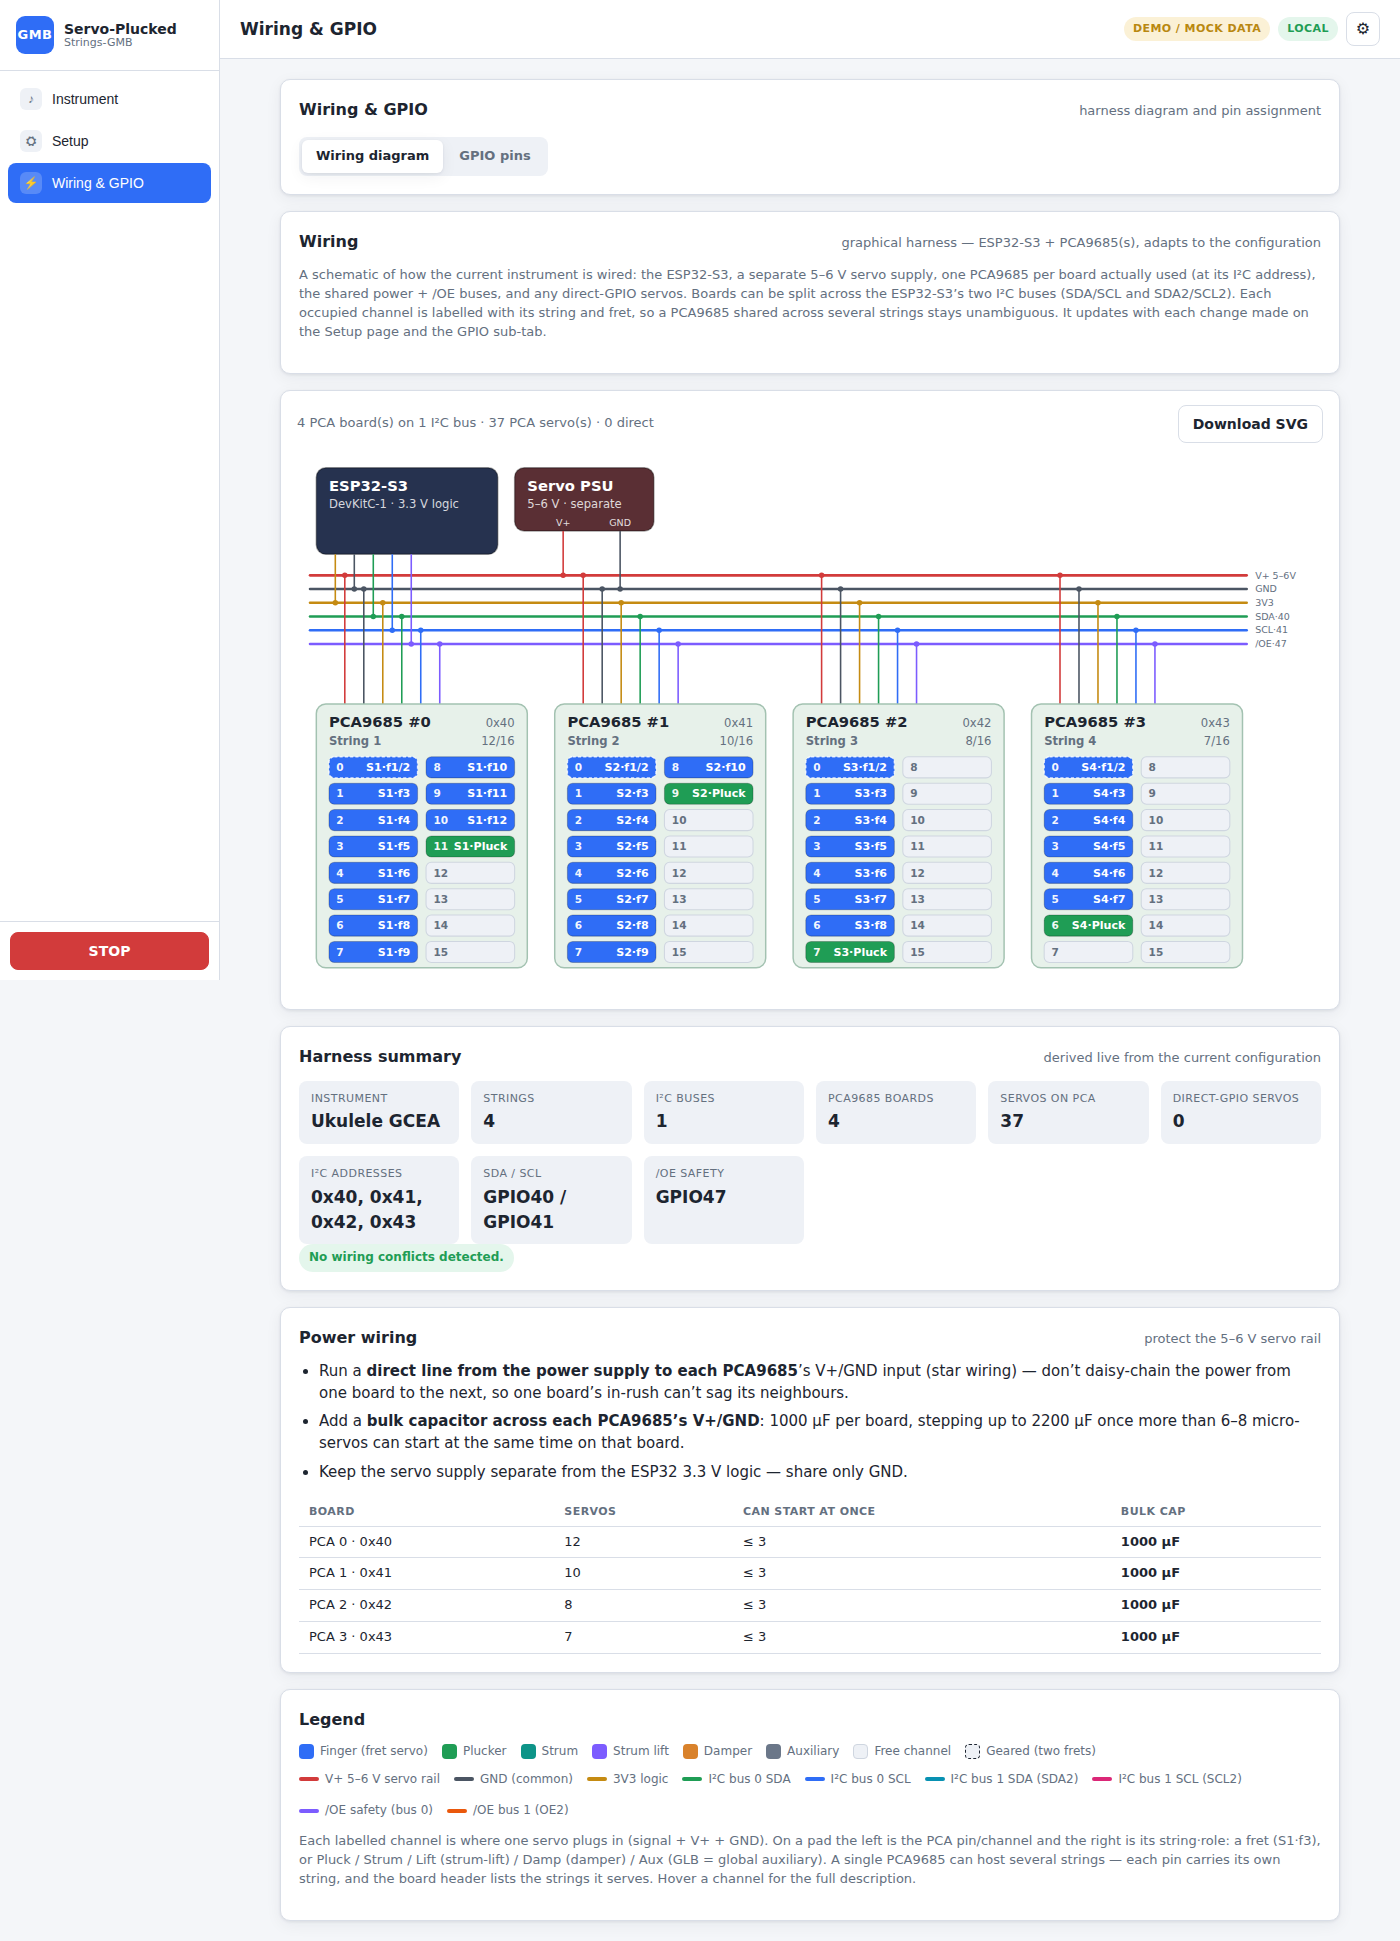
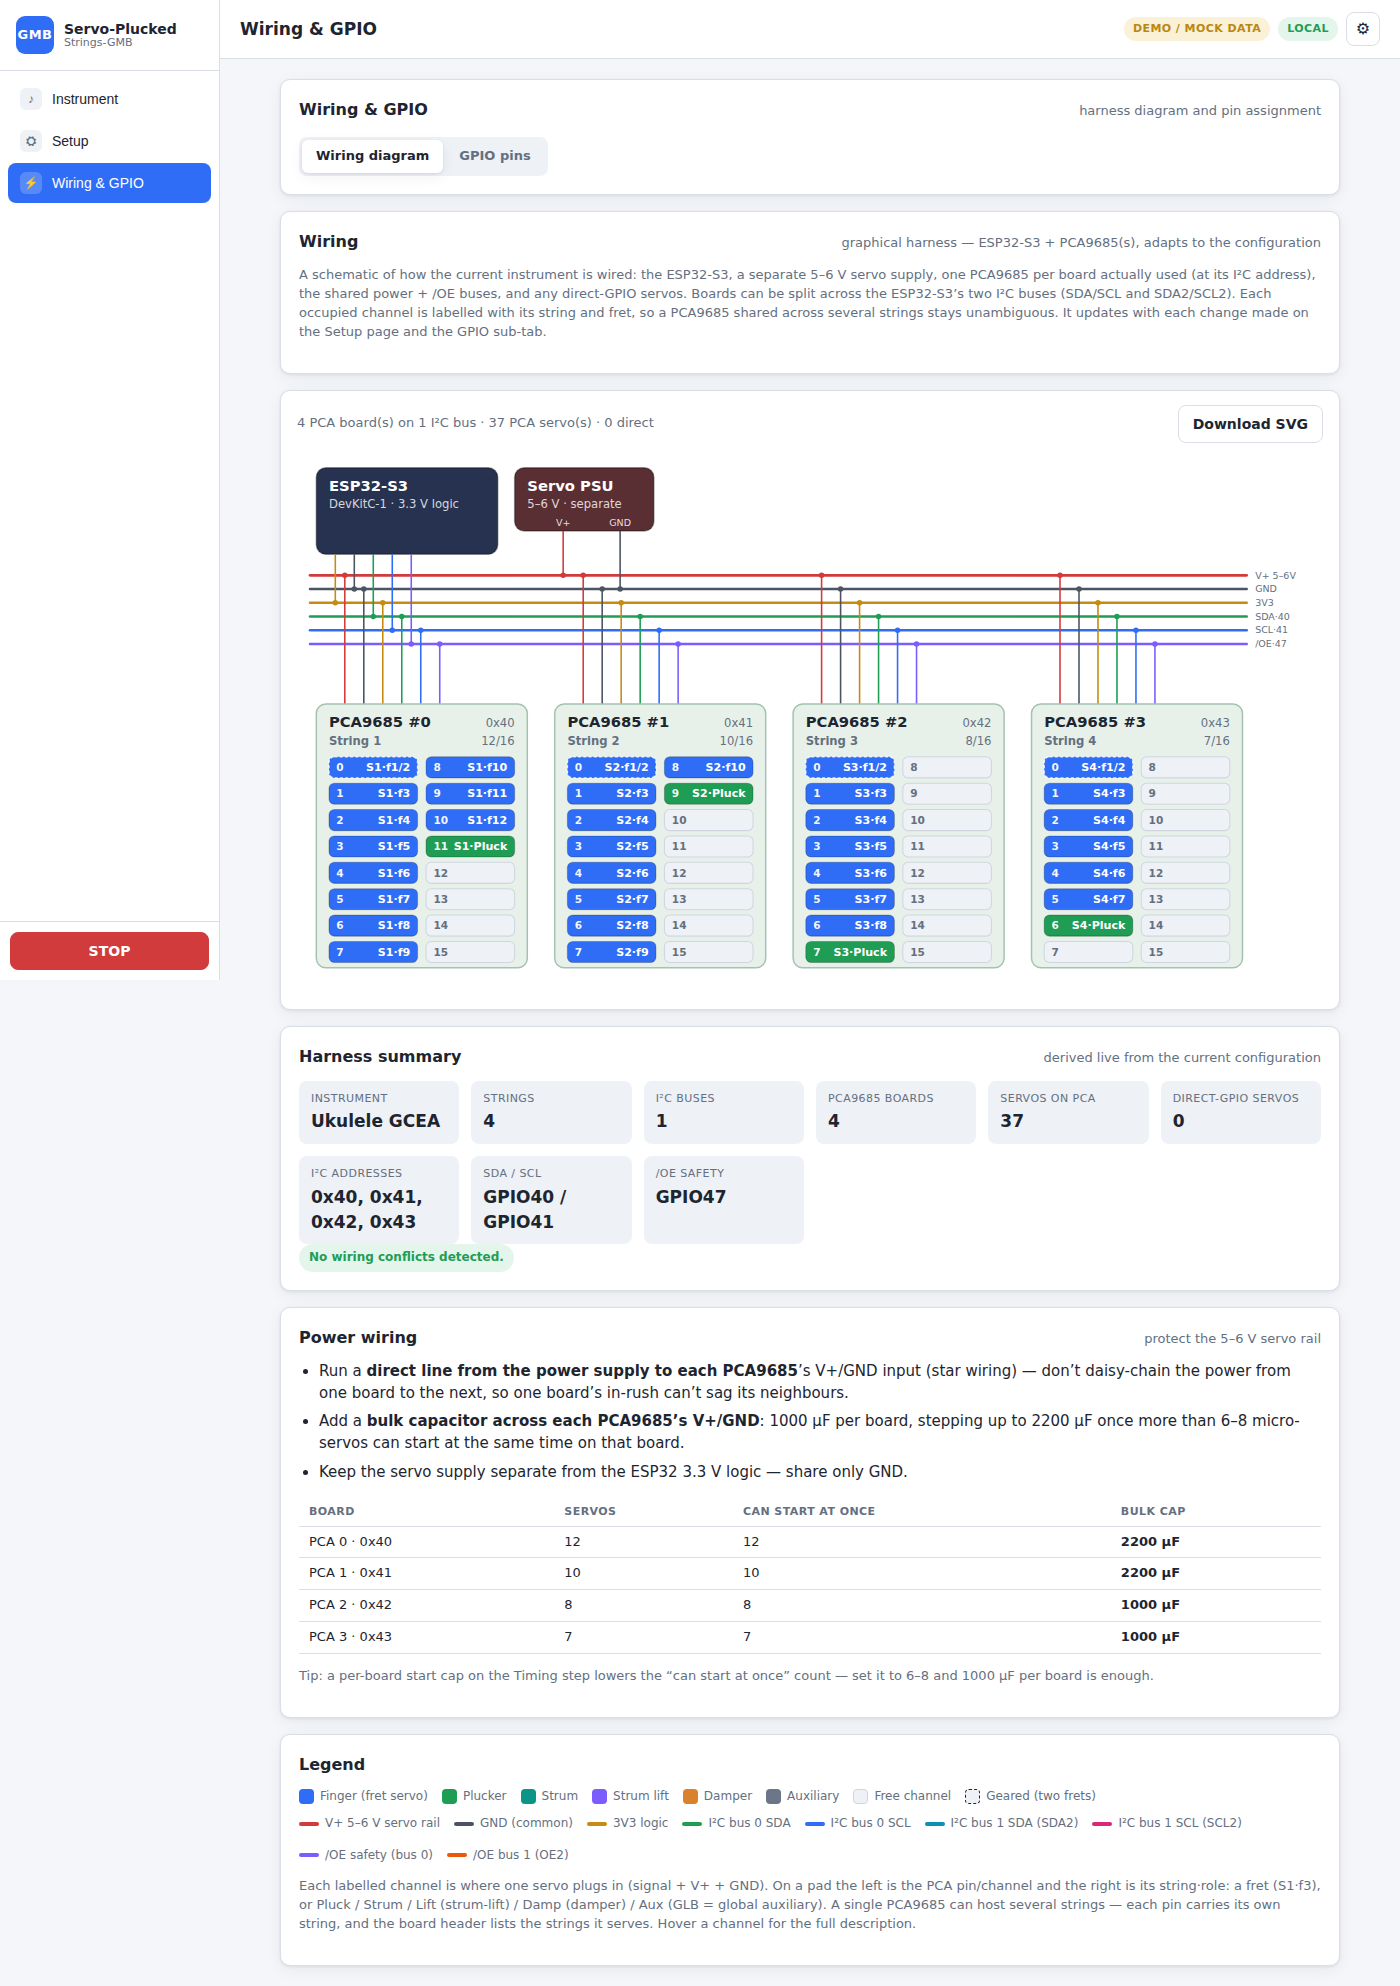
Size the per-board capacitor from the board's servo count, not the global cap
The capacitor recommendation was driven by the whole-instrument governor cap
(default 3), so every board read "≤3 → 1000 µF" regardless of how many servos it
carries. Base it on the board's own servo count instead — its real worst-case load
— so a board with more than 6–8 micro-servos now correctly recommends 2200 µF (e.g.
the ukulele's 12- and 10-servo boards). A deliberate per-board start cap (Timing
step) still lowers it; the global cap no longer does, since the capacitor must
handle the board's own load whatever the software throttle is set to. Also fixes the
board-address label (was "0x0x40"). Verified with 0 JS errors; screenshot updated.

Claude-Session: https://claude.ai/code/session_015PWH6PkVD5zBStjdUTLyYe

diff --git a/web-interface/js/wiring.js b/web-interface/js/wiring.js
@@ -549,26 +549,25 @@
   }
 
   // Power-distribution advice + a per-board bulk-capacitor recommendation, sized to
-  // how many micro-servos can start at once on each board (fewer starts -> a smaller
-  // cap is enough). The worst case follows the governor caps set on the Timing step:
-  // a per-board start cap directly bounds it.
+  // how many micro-servos sit on each board — its own worst-case simultaneous start.
+  // A per-board start cap (Timing step) hard-limits that and can lower the cap; the
+  // whole-instrument global cap is NOT used, since the capacitor must handle the
+  // board's own load whatever the software throttle does.
   function powerAdviceCard(p, m) {
     var pw = p.power || {};
-    var globalCap = pw.maxConcurrentMoves | 0;    // 0 = no global limit
     var boardCap = pw.maxConcurrentPerBoard | 0;  // 0 = no per-board limit
     var needsBig = false;
     var rows = m.boards.map(function (b) {
       var chans = m.byBoard[b.key] || [];
       var count = 0;
       for (var c = 0; c < 16; c++) count += (chans[c] ? chans[c].length : 0);
-      var eff = boardCap > 0 ? boardCap : (globalCap > 0 ? globalCap : count);
-      var worst = Math.min(count, eff);
+      var worst = boardCap > 0 ? Math.min(count, boardCap) : count;
       var uF = worst > 8 ? 2200 : 1000;
       if (uF === 2200) needsBig = true;
       return h('tr', [
         h('td', 'PCA ' + b.board + ' · ' + hex2(0x40 + b.board) + (m.useBus1 ? ' · bus ' + b.bus : '')),
         h('td', String(count)),
-        h('td', '≤ ' + worst),
+        h('td', boardCap > 0 ? ('≤ ' + worst) : String(worst)),
         h('td.cap-uf', uF + ' µF')
       ]);
     });
